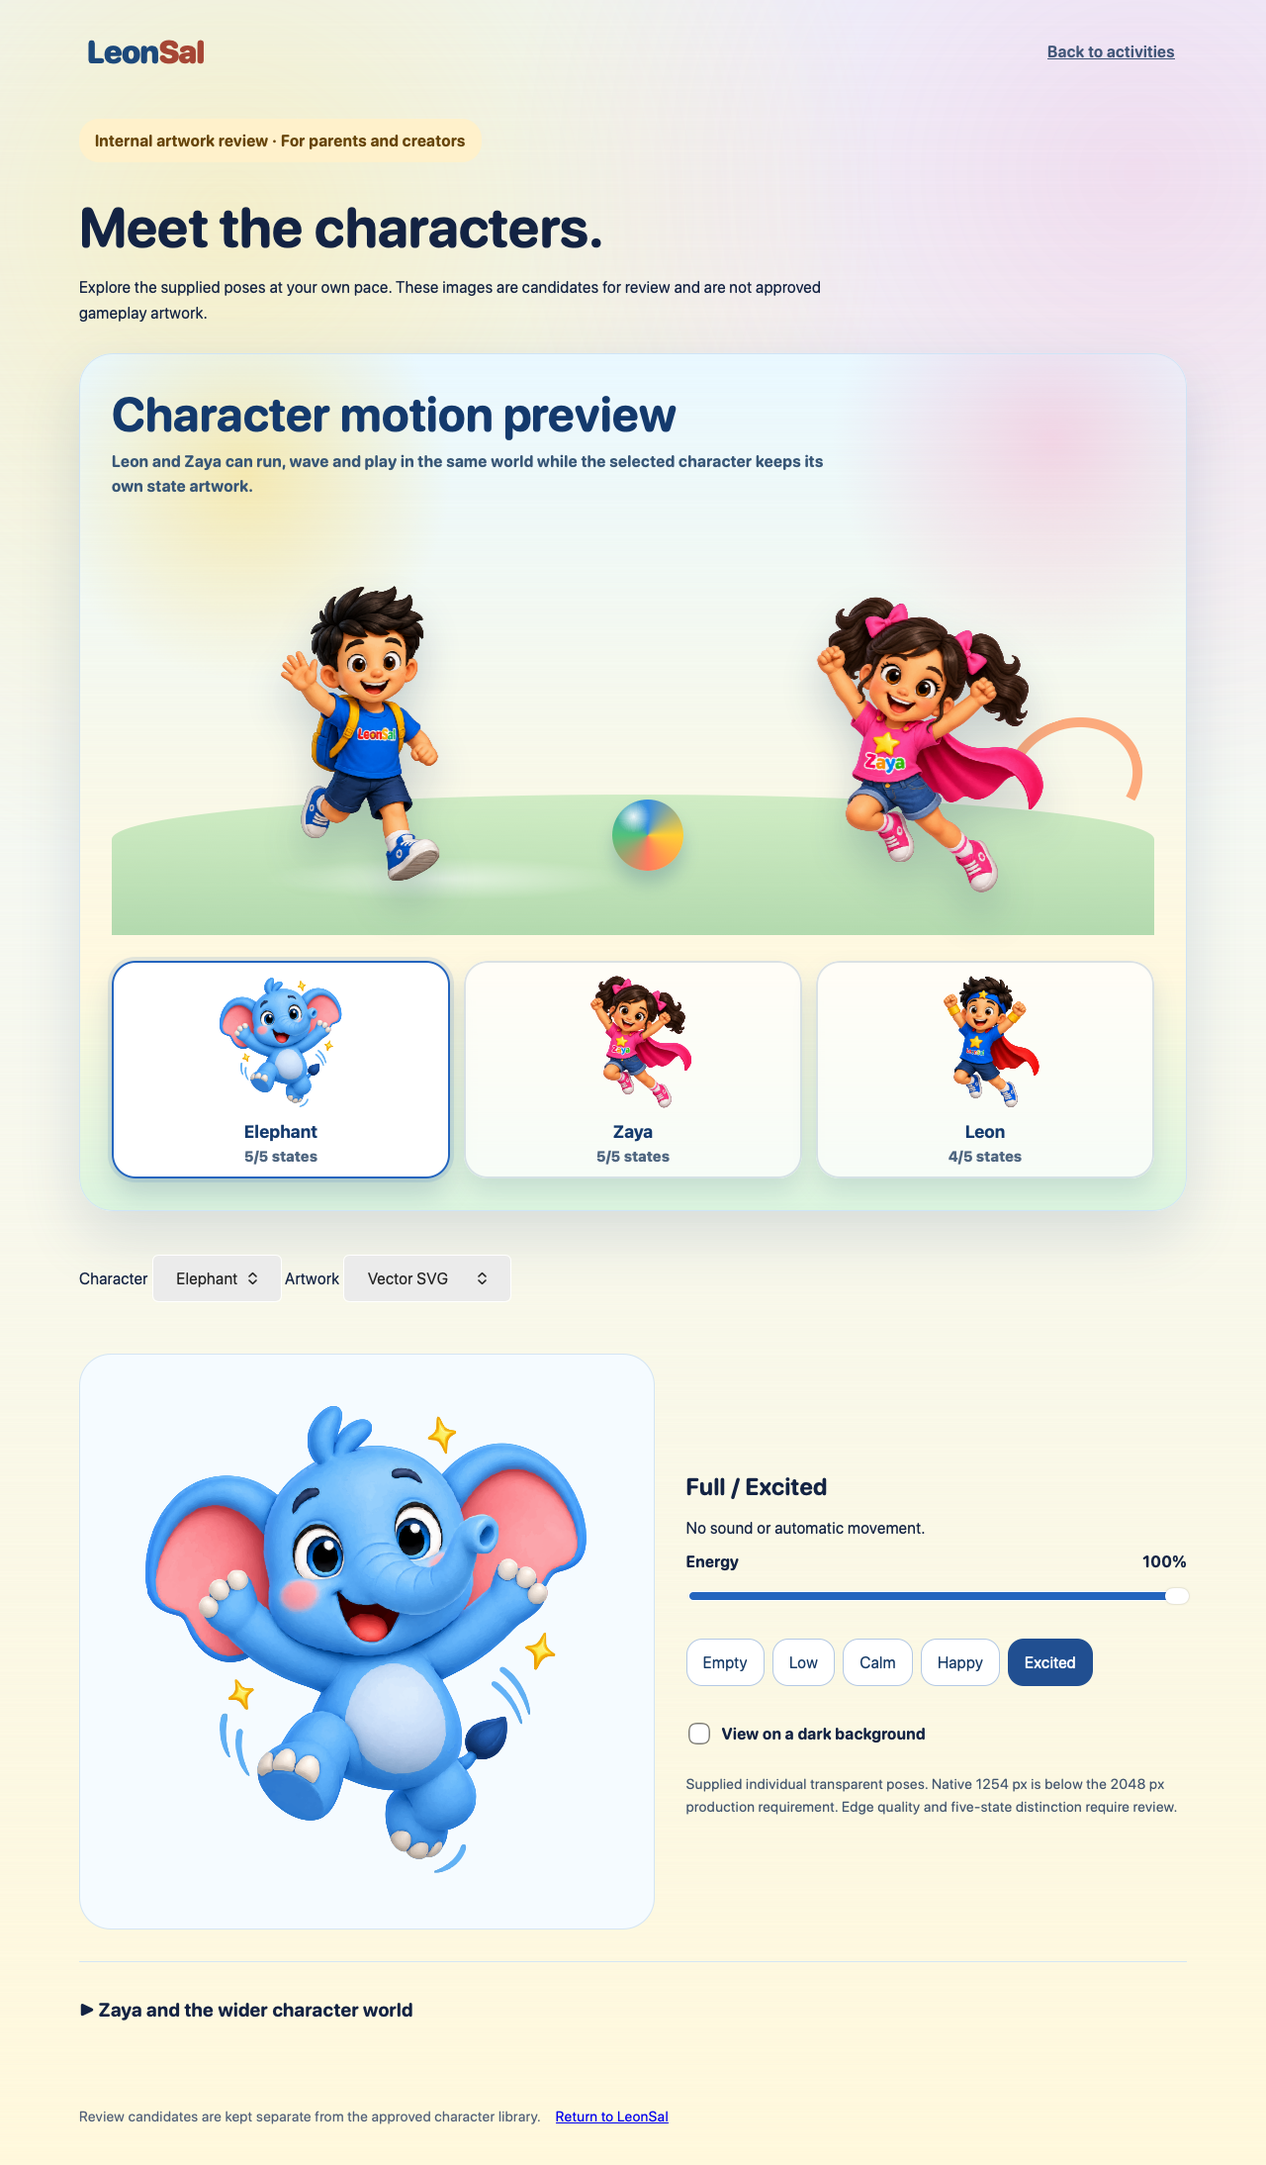
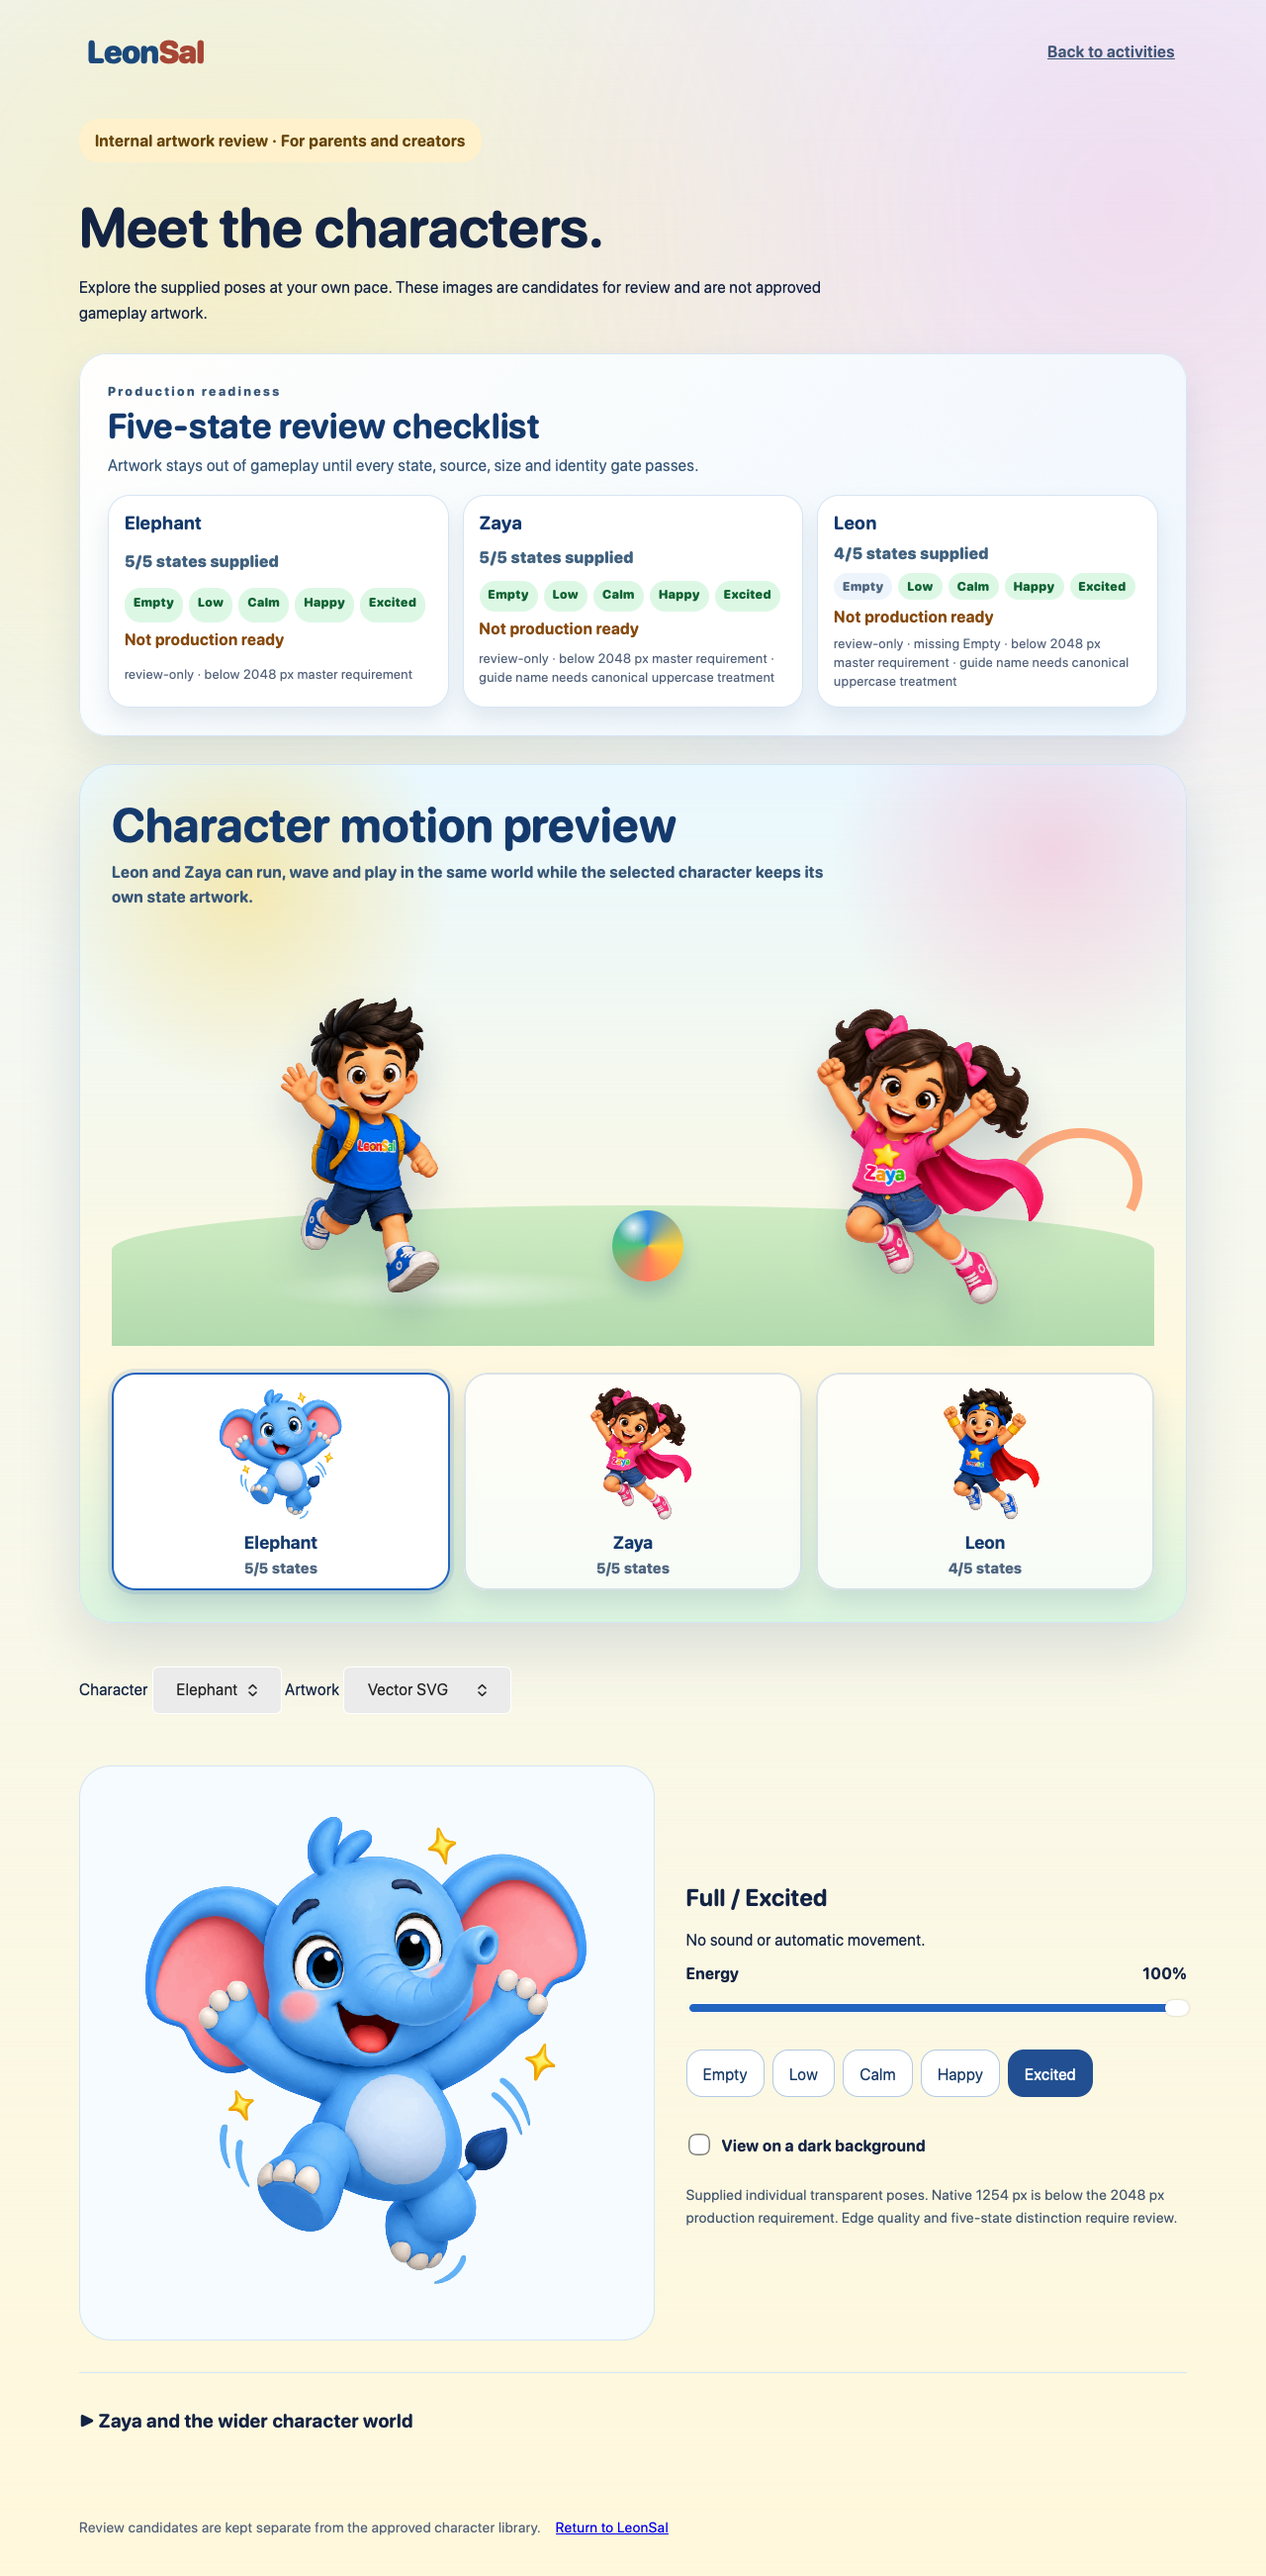
Add review-only character readiness matrix

diff --git a/js/character-review.js b/js/character-review.js
@@ -18,6 +18,7 @@
     const selector = document.getElementById('reviewCharacter');
     const format = document.getElementById('artFormat');
     const characterCards = document.getElementById('characterCards');
+    const readinessGrid = document.getElementById('readinessGrid');
     const stateName = state => state[0].toUpperCase() + state.slice(1);
     const srcFor = (item, state) => {
       const asset = item.states[state];
@@ -28,6 +29,33 @@
     for (const item of characters) {
       const option = document.createElement('option'); option.value = item.id; option.textContent = item.name; selector.append(option);
     }
+    const renderReadiness = () => {
+      if (!readinessGrid) return;
+      const states = ['empty', 'low', 'calm', 'happy', 'excited'];
+      readinessGrid.replaceChildren(...characters.map((item) => {
+        const supplied = states.filter((state) => Boolean(item.states[state]));
+        const belowMasterSize = Object.values(item.states).some((asset) => Number(asset.width || 0) < 2048 || Number(asset.height || 0) < 2048);
+        const missing = states.filter((state) => !item.states[state]).map(stateName);
+        const blockers = [
+          item.status !== 'approved' ? 'review-only' : null,
+          supplied.length < 5 ? `missing ${missing.join(', ')}` : null,
+          belowMasterSize ? 'below 2048 px master requirement' : null,
+          /uppercase name|canonical uppercase name/i.test(item.notes || '') ? 'guide name needs canonical uppercase treatment' : null
+        ].filter(Boolean);
+        const card = document.createElement('article');
+        card.className = 'readiness-card';
+        card.dataset.character = item.id;
+        card.innerHTML = `<h3>${item.name}</h3><p>${supplied.length}/5 states supplied</p><div class="readiness-states" aria-label="${item.name} supplied states"></div><strong>${blockers.length ? 'Not production ready' : 'Ready for approval review'}</strong><small>${blockers.join(' · ') || 'All automated readiness blockers cleared.'}</small>`;
+        const stateHost = card.querySelector('.readiness-states');
+        stateHost.replaceChildren(...states.map((state) => {
+          const dot = document.createElement('span');
+          dot.textContent = stateName(state);
+          dot.dataset.ready = String(Boolean(item.states[state]));
+          return dot;
+        }));
+        return card;
+      }));
+    };
     const makeCard = item => {
       const card = document.createElement('button');
       card.type = 'button';
@@ -52,6 +80,7 @@
       return card;
     };
     characterCards.replaceChildren(...characters.map(makeCard));
+    renderReadiness();
     function renderRunners() {
       const leon = characters.find(item => item.id === 'leon');
       const zaya = characters.find(item => item.id === 'zaya');

diff --git a/character-review.css b/character-review.css
@@ -2,6 +2,34 @@
 .review-badge { display:inline-block; border-radius:20px; padding:9px 16px; background:#fff1cb; color:#67450a; font-weight:700; }
 .review-shell h1 { font-size:clamp(2rem,5vw,3.5rem); margin:16px 0; }
 .review-shell > p { max-width:760px; line-height:1.6; }
+.review-readiness {
+  margin: 28px 0;
+  padding: clamp(18px, 3vw, 28px);
+  border: 1px solid #d5e7f7;
+  border-radius: 28px;
+  background: linear-gradient(135deg, rgba(255,255,255,.96), rgba(239,248,255,.92));
+  box-shadow: 0 18px 45px rgba(30, 70, 120, .12);
+}
+.review-readiness h2 { margin: 4px 0 8px; color: #143a6d; font-size: clamp(1.6rem, 3vw, 2.2rem); }
+.review-readiness p { margin: 0; color: #385777; line-height: 1.5; }
+.readiness-grid { display: grid; grid-template-columns: repeat(3, minmax(0, 1fr)); gap: 14px; margin-top: 18px; }
+.readiness-card {
+  display: grid;
+  gap: 8px;
+  padding: 16px;
+  border-radius: 22px;
+  background: #fff;
+  border: 1px solid #d7e5f3;
+  box-shadow: 0 12px 24px rgba(24, 67, 114, .1);
+}
+.readiness-card h3, .readiness-card p { margin: 0; }
+.readiness-card h3 { color: #143a6d; }
+.readiness-card p { font-weight: 900; color: #41627f; }
+.readiness-card strong { color: #86480a; }
+.readiness-card small { color: #52617a; line-height: 1.45; }
+.readiness-states { display: flex; flex-wrap: wrap; gap: 6px; }
+.readiness-states span { border-radius: 999px; padding: 6px 9px; background: #eef4fb; color: #536a83; font-size: .78rem; font-weight: 900; }
+.readiness-states span[data-ready="true"] { background: #dcf8e5; color: #126334; }
 .character-playground {
   margin: 28px 0 32px;
   padding: clamp(18px, 3vw, 32px);
@@ -152,6 +180,7 @@
 @media(max-width:650px) {
   .review-workbench { grid-template-columns:1fr; gap:20px; }
   .review-stage { min-height:0; }
+  .readiness-grid { grid-template-columns: 1fr; }
   .character-cards { grid-template-columns: 1fr; }
   .runner { width: min(48vw, 220px); }
   .runner-leon { left: -6%; }

diff --git a/character-review.html b/character-review.html
@@ -11,6 +11,14 @@
     <header class="world-header"><a class="wordmark" href="v2-home.html">Leon<span>Sal</span></a><a href="v2-home.html">Back to activities</a></header>
     <p class="review-badge">Internal artwork review · For parents and creators</p>
     <h1>Meet the characters.</h1><p>Explore the supplied poses at your own pace. These images are candidates for review and are not approved gameplay artwork.</p>
+    <section class="review-readiness" aria-labelledby="readinessTitle">
+      <div>
+        <p class="eyebrow">Production readiness</p>
+        <h2 id="readinessTitle">Five-state review checklist</h2>
+        <p>Artwork stays out of gameplay until every state, source, size and identity gate passes.</p>
+      </div>
+      <div class="readiness-grid" id="readinessGrid" aria-live="polite"></div>
+    </section>
     <section class="character-playground" aria-labelledby="playgroundTitle">
       <div class="playground-copy">
         <h2 id="playgroundTitle">Character motion preview</h2>

diff --git a/docs/LEONSAL_COMPLETION_CHECKLIST.md b/docs/LEONSAL_COMPLETION_CHECKLIST.md
@@ -42,6 +42,7 @@
 - [x] Implement the Sensory Mixer foundation on V2 home as local saved sensory-world presets that obey global preference ceilings and do not count as games.
 - [x] Add a polite connection-status surface for V2 home and direct game entry, with safe offline fallback checks and mobile accessibility smoke coverage.
 - [x] Add local caregiver activity-summary export for the active profile, limited to visits and Finished sessions and explicitly excluding scores, grades, mastery claims and medical/sensory labels.
+- [x] Add a review-only character readiness matrix for supplied Leon, Zaya and Elephant artwork, showing five-state completeness and blockers while preserving production runtime art isolation.
 
 These changes remain preview work. They do not approve character art, claim production deployment, or complete all foundation contracts.
 
@@ -61,6 +62,7 @@ Current registry: 69 canonical characters, 1 approved (Battery Buddy), 68 pendin
 
 - [x] Recover and preserve the five supplied individual Elephant PNGs; expose them only in the explicit character review page.
 - [x] Recover and preserve supplied individual Leon/Zaya/Elephant review PNGs and real SVG trace derivatives; expose them only in the explicit character review page. Leon still lacks a supplied empty state and all guide review art remains pending production approval.
+- [x] Expose review-only five-state readiness for supplied Leon, Zaya and Elephant candidates; this does not approve them for gameplay.
 - [ ] Recover remaining original individual five-pose PNGs from “Math Game Upgrade”; inspect actual bytes, alpha, dimensions, identity and provenance before deciding whether replacements are needed.
 - [ ] Resolve canonical Leon/Zaya identity review. Existing failed method pilots remain unapproved.
 - [ ] Deliver verified individual masters (2048+ px longest edge), matching optimised derivatives and exact visible LEON/ZAYA names.
